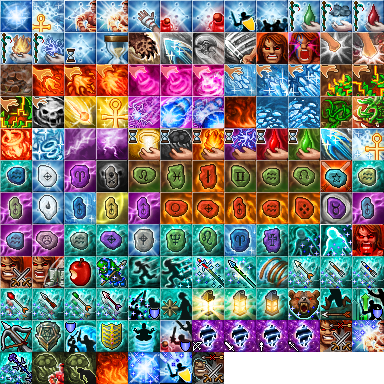
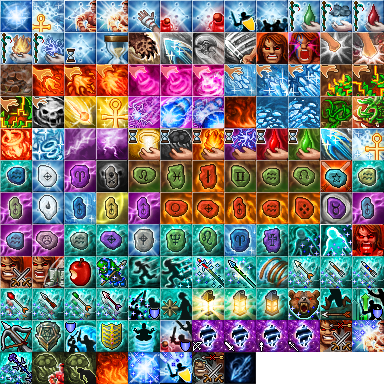
Flecha de Gelo

Changed region(s): [[0.5625, 0.9062, 0.6875, 1.0]]

diff --git a/Source/Server/src/spells.cpp b/Source/Server/src/spells.cpp
@@ -278,6 +278,10 @@ bool CombatSpell::loadScriptCombat()
 
 bool CombatSpell::castSpell(Creature* creature)
 {
+	if (creature->isSpellCastBlocked()) {
+		return false;
+	}
+
 	if (scripted) {
 		LuaVariant var;
 		var.type = VARIANT_POSITION;
@@ -304,6 +308,10 @@ bool CombatSpell::castSpell(Creature* creature)
 
 bool CombatSpell::castSpell(Creature* creature, Creature* target)
 {
+	if (creature->isSpellCastBlocked()) {
+		return false;
+	}
+
 	if (scripted) {
 		LuaVariant var;
 
@@ -553,6 +561,12 @@ bool Spell::configureSpell(const pugi::xml_node& node)
 bool Spell::playerSpellCheck(Player* player) const
 {
 	if (player->hasFlag(PlayerFlag_CannotUseSpells)) {
+		return false;
+	}
+
+	if (player->isSpellCastBlocked()) {
+		player->sendCancelMessage(RETURNVALUE_YOUAREEXHAUSTED);
+		g_game.addMagicEffect(player->getPosition(), CONST_ME_POFF);
 		return false;
 	}
 
@@ -1019,6 +1033,10 @@ bool InstantSpell::canThrowSpell(const Creature* creature, const Creature* targe
 
 bool InstantSpell::castSpell(Creature* creature)
 {
+	if (creature->isSpellCastBlocked()) {
+		return false;
+	}
+
 	LuaVariant var;
 
 	if (casterTargetOrDirection) {
@@ -1047,6 +1065,10 @@ bool InstantSpell::castSpell(Creature* creature)
 
 bool InstantSpell::castSpell(Creature* creature, Creature* target)
 {
+	if (creature->isSpellCastBlocked()) {
+		return false;
+	}
+
 	if (needTarget) {
 		LuaVariant var;
 		var.type = VARIANT_NUMBER;
@@ -1088,6 +1110,10 @@ bool InstantSpell::executeCastSpell(Creature* creature, const LuaVariant& var)
 bool InstantSpell::canCast(const Player* player) const
 {
 	if (player->hasFlag(PlayerFlag_CannotUseSpells)) {
+		return false;
+	}
+
+	if (player->isSpellCastBlocked()) {
 		return false;
 	}
 
@@ -1223,6 +1249,10 @@ bool RuneSpell::executeUse(Player* player, Item* item, const Position&, Thing* t
 
 bool RuneSpell::castSpell(Creature* creature)
 {
+	if (creature->isSpellCastBlocked()) {
+		return false;
+	}
+
 	LuaVariant var;
 	var.type = VARIANT_NUMBER;
 	var.number = creature->getID();
@@ -1231,6 +1261,10 @@ bool RuneSpell::castSpell(Creature* creature)
 
 bool RuneSpell::castSpell(Creature* creature, Creature* target)
 {
+	if (creature->isSpellCastBlocked()) {
+		return false;
+	}
+
 	LuaVariant var;
 	var.type = VARIANT_NUMBER;
 	var.number = target->getID();

diff --git a/Source/Server/src/luascript.cpp b/Source/Server/src/luascript.cpp
@@ -2479,6 +2479,7 @@ void LuaScriptInterface::registerFunctions()
 	registerMethod("Creature", "getSpeed", LuaScriptInterface::luaCreatureGetSpeed);
 	registerMethod("Creature", "getBaseSpeed", LuaScriptInterface::luaCreatureGetBaseSpeed);
 	registerMethod("Creature", "changeSpeed", LuaScriptInterface::luaCreatureChangeSpeed);
+	registerMethod("Creature", "blockSpellCasts", LuaScriptInterface::luaCreatureBlockSpellCasts);
 
 	registerMethod("Creature", "setDropLoot", LuaScriptInterface::luaCreatureSetDropLoot);
 	registerMethod("Creature", "setSkillLoss", LuaScriptInterface::luaCreatureSetSkillLoss);
@@ -8282,6 +8283,22 @@ int LuaScriptInterface::luaCreatureChangeSpeed(lua_State* L)
 
 	int32_t delta = getNumber<int32_t>(L, 2);
 	g_game.changeSpeed(creature, delta);
+	pushBoolean(L, true);
+	return 1;
+}
+
+int LuaScriptInterface::luaCreatureBlockSpellCasts(lua_State* L)
+{
+	// creature:blockSpellCasts(durationMs)
+	Creature* creature = getCreature(L, 1);
+	if (!creature) {
+		reportErrorFunc(L, getErrorDesc(LUA_ERROR_CREATURE_NOT_FOUND));
+		pushBoolean(L, false);
+		return 1;
+	}
+
+	uint32_t durationMs = getNumber<uint32_t>(L, 2);
+	creature->blockSpellCasts(durationMs);
 	pushBoolean(L, true);
 	return 1;
 }

diff --git a/Source/Server/src/creature.h b/Source/Server/src/creature.h
@@ -403,6 +403,12 @@ class Creature : virtual public Thing
 		bool isMovementBlocked() const {
 			return movementBlocked;
 		}
+		void blockSpellCasts(uint32_t durationMs) {
+			spellBlockEnd = std::max<int64_t>(spellBlockEnd, OTSYS_TIME() + durationMs);
+		}
+		bool isSpellCastBlocked() const {
+			return spellBlockEnd > OTSYS_TIME();
+		}
 
 		//creature script events
 		bool registerCreatureEvent(const std::string& name);
@@ -535,6 +541,7 @@ class Creature : virtual public Thing
 		bool hiddenHealth = false;
 		bool canUseDefense = true;
 		bool movementBlocked = false;
+		int64_t spellBlockEnd = 0;
 
 		//creature script events
 		bool hasEventRegistered(CreatureEventType_t event) const {

diff --git a/Source/Server/src/luascript.h b/Source/Server/src/luascript.h
@@ -836,6 +836,7 @@ class LuaScriptInterface
 		static int luaCreatureGetSpeed(lua_State* L);
 		static int luaCreatureGetBaseSpeed(lua_State* L);
 		static int luaCreatureChangeSpeed(lua_State* L);
+		static int luaCreatureBlockSpellCasts(lua_State* L);
 
 		static int luaCreatureSetDropLoot(lua_State* L);
 		static int luaCreatureSetSkillLoss(lua_State* L);